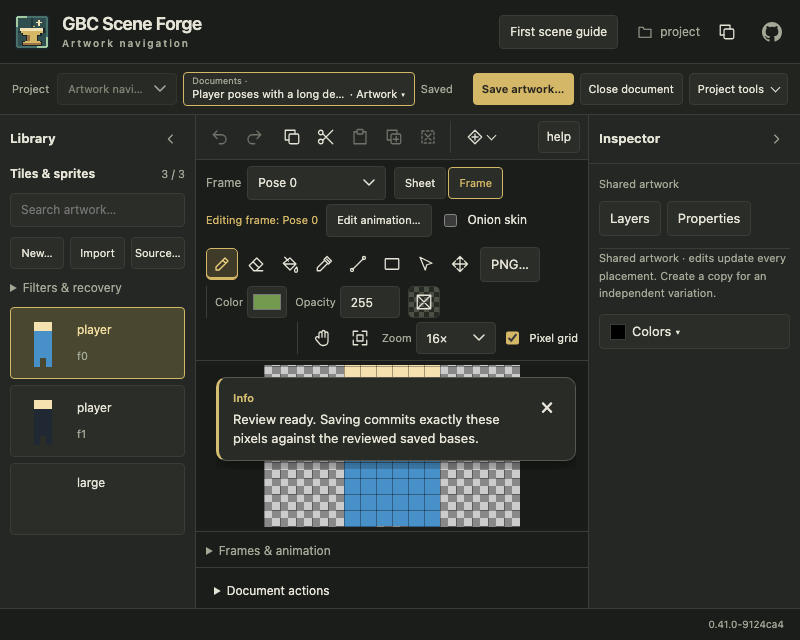
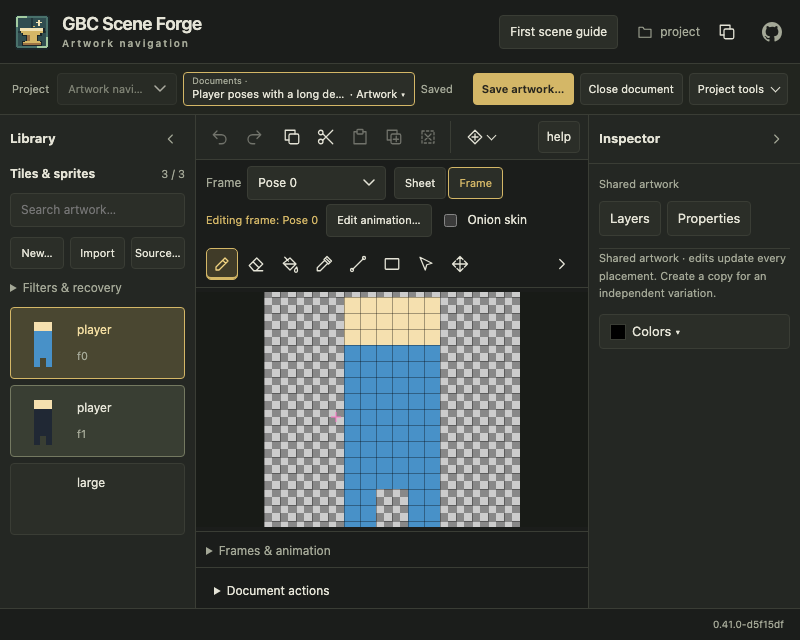
Keep artwork tools on one row with an overflow menu

Changed region(s): [[0.25, 0.4062, 0.7188, 0.8438], [0.875, 0.9688, 0.9688, 1.0]]

diff --git a/src/gbc_scene_forge/static/project.html b/src/gbc_scene_forge/static/project.html
@@ -459,11 +459,13 @@
       </section>
       <details id="art-selection-details" hidden><summary>Placements this variation will replace</summary><ul id="art-selection-list"></ul></details>
         <div id="art-drawing-boundary" class="art-frame-bar" hidden><label class="field">Frame<select id="art-frame"></select></label><div class="art-scope" role="group" aria-label="Drawing scope"><button id="art-sheet-view" aria-pressed="true">Sheet</button><button id="art-frame-view" aria-pressed="false">Frame</button></div><span id="art-drawing-scope" role="status"></span><input id="art-edit-frame" type="checkbox" hidden><button id="art-show-animation" type="button">Edit animation…</button><label><input id="art-onion" type="checkbox"> Onion skin</label></div>
-<div class="art-toolbar">
-<div class="pixel-toolbar" aria-label="Pixel editing commands">
+<div id="art-toolbar" class="art-toolbar">
+<div id="art-drawing-tools" class="pixel-toolbar" aria-label="Pixel editing commands">
 <div class="tool-group" role="group" aria-label="Pixel tools"><label class="tool" title="Pencil (P)"><input type="radio" name="art-tool" value="pencil" checked><svg class="command-icon" width="18" height="18" viewBox="0 0 24 24" aria-hidden="true"><use href="#icon-pencil"/></svg><span class="tool-label">Pencil</span></label><label class="tool" title="Eraser (E)"><input type="radio" name="art-tool" value="erase"><svg class="command-icon" width="18" height="18" viewBox="0 0 24 24" aria-hidden="true"><use href="#icon-erase"/></svg><span class="tool-label">Eraser</span></label><label class="tool" title="Flood fill (F)"><input type="radio" name="art-tool" value="fill"><svg class="command-icon" width="18" height="18" viewBox="0 0 24 24" aria-hidden="true"><use href="#icon-fill"/></svg><span class="tool-label">Flood fill</span></label><label class="tool" title="Eyedropper (I)"><input type="radio" name="art-tool" value="pick"><svg class="command-icon" width="18" height="18" viewBox="0 0 24 24" aria-hidden="true"><use href="#icon-pick"/></svg><span class="tool-label">Eyedropper</span></label><label class="tool" title="Line (L)"><input type="radio" name="art-tool" value="line"><svg class="command-icon" width="18" height="18" viewBox="0 0 24 24" aria-hidden="true"><use href="#icon-line"/></svg><span class="tool-label">Line</span></label><label class="tool" title="Rectangle outline (R)"><input type="radio" name="art-tool" value="rectangle"><svg class="command-icon" width="18" height="18" viewBox="0 0 24 24" aria-hidden="true"><use href="#icon-rectangle"/></svg><span class="tool-label">Rectangle outline</span></label><label class="tool" title="Select rectangle (S)"><input type="radio" name="art-tool" value="select"><svg class="command-icon" width="18" height="18" viewBox="0 0 24 24" aria-hidden="true"><use href="#icon-select"/></svg><span class="tool-label">Select rectangle</span></label><label class="tool" title="Move selection (M)"><input type="radio" name="art-tool" value="move"><svg class="command-icon" width="18" height="18" viewBox="0 0 24 24" aria-hidden="true"><use href="#icon-move"/></svg><span class="tool-label">Move selection</span></label></div>
 </div>
-<button id="art-png-menu" popovertarget="art-png-options" aria-controls="art-png-options" aria-expanded="false" aria-label="Download PNG…" title="Download current artwork as PNG"><span class="command-full-label">Download </span>PNG…</button><div id="art-png-options" class="command-panel art-png-export" popover aria-label="Download PNG"><label class="field">PNG scope<select id="art-png-scope"><option value="sheet">Whole artwork / sheet</option><option value="frame">Selected frame</option></select></label><button id="art-download-png">Download PNG</button><span id="art-png-help" class="hint">Current composited pixels, including unsaved edits; native size and transparency.</span></div><div class="art-row art-tools"><div class="art-row color-controls" role="group" aria-label="Drawing color"><label class="field">Color<input id="art-color" type="color" value="#729b4f"></label><label class="field">Opacity<input title="0 = transparent, 255 = opaque" id="art-alpha" type="number" min="0" max="255" value="255"></label><button id="art-transparent" class="icon-button" aria-pressed="false" title="Toggle transparent drawing; click again to restore opacity"><svg class="command-icon" width="18" height="18" viewBox="0 0 24 24" aria-hidden="true"><use href="#icon-transparent"/></svg><span id="art-transparency-label">Transparent</span></button></div><div class="art-row pixel-view-controls" role="group" aria-label="Pixel view"><button id="art-pan" class="icon-button" aria-label="Pan artwork" aria-pressed="false" title="Pan artwork (H): drag, or use arrow keys on the canvas. Also middle drag or Space+drag."><svg class="command-icon" width="18" height="18" viewBox="0 0 24 24" aria-hidden="true"><use href="#icon-pan"/></svg></button><button id="art-fit" class="icon-button" aria-label="Fit artwork" title="Center and fit artwork in the drawing area"><svg class="command-icon" width="18" height="18" viewBox="0 0 24 24" aria-hidden="true"><use href="#icon-fit"/></svg></button><label class="field">Zoom<select id="art-zoom"><option value="0.03125">¹⁄₃₂×</option><option value="0.0625">¹⁄₁₆×</option><option value="0.125">⅛×</option><option value="0.25">¼×</option><option value="0.5">½×</option><option value="1">1×</option><option value="2">2×</option><option value="4">4×</option><option value="8">8×</option><option value="16" selected>16×</option><option value="32">32×</option></select></label><label><input id="art-grid" type="checkbox" checked> Pixel grid</label></div></div>
+<button id="art-png-menu" popovertarget="art-png-options" aria-controls="art-png-options" aria-expanded="false" aria-label="Download PNG…" title="Download current artwork as PNG"><span class="command-full-label">Download </span>PNG…</button><div id="art-png-options" class="command-panel art-png-export" popover aria-label="Download PNG"><label class="field">PNG scope<select id="art-png-scope"><option value="sheet">Whole artwork / sheet</option><option value="frame">Selected frame</option></select></label><button id="art-download-png">Download PNG</button><span id="art-png-help" class="hint">Current composited pixels, including unsaved edits; native size and transparency.</span></div><div class="art-row art-tools"><div id="art-color-controls" class="art-row color-controls" role="group" aria-label="Drawing color"><label class="field">Color<input id="art-color" type="color" value="#729b4f"></label><label class="field">Opacity<input title="0 = transparent, 255 = opaque" id="art-alpha" type="number" min="0" max="255" value="255"></label><button id="art-transparent" class="icon-button" aria-pressed="false" title="Toggle transparent drawing; click again to restore opacity"><svg class="command-icon" width="18" height="18" viewBox="0 0 24 24" aria-hidden="true"><use href="#icon-transparent"/></svg><span id="art-transparency-label">Transparent</span></button></div><div id="art-view-controls" class="art-row pixel-view-controls" role="group" aria-label="Pixel view"><button id="art-pan" class="icon-button" aria-label="Pan artwork" aria-pressed="false" title="Pan artwork (H): drag, or use arrow keys on the canvas. Also middle drag or Space+drag."><svg class="command-icon" width="18" height="18" viewBox="0 0 24 24" aria-hidden="true"><use href="#icon-pan"/></svg></button><button id="art-fit" class="icon-button" aria-label="Fit artwork" title="Center and fit artwork in the drawing area"><svg class="command-icon" width="18" height="18" viewBox="0 0 24 24" aria-hidden="true"><use href="#icon-fit"/></svg></button><label class="field">Zoom<select id="art-zoom"><option value="0.03125">¹⁄₃₂×</option><option value="0.0625">¹⁄₁₆×</option><option value="0.125">⅛×</option><option value="0.25">¼×</option><option value="0.5">½×</option><option value="1">1×</option><option value="2">2×</option><option value="4">4×</option><option value="8">8×</option><option value="16" selected>16×</option><option value="32">32×</option></select></label><label><input id="art-grid" type="checkbox" checked> Pixel grid</label></div></div>
+<button id="art-more-tools" class="icon-button" type="button" popovertarget="art-tool-overflow" aria-controls="art-tool-overflow" aria-expanded="false" aria-label="More artwork tools" title="More artwork tools" hidden><svg class="command-icon" width="18" height="18" viewBox="0 0 24 24" aria-hidden="true"><path d="m9 6 6 6-6 6"/></svg></button>
+<div id="art-tool-overflow" class="art-tools" popover aria-label="More artwork tools"></div>
 <button id="art-palette-toggle" type="button" popovertarget="art-palette">Colors ▾</button>
 <div id="art-palette" popover="auto" aria-label="Artwork palette">
   <div class="art-palette-tabs" role="tablist" aria-label="Palette scope"><button id="art-palette-composition" type="button" role="tab" aria-selected="true" aria-controls="art-palette-content">Composition</button><button id="art-palette-layer" type="button" role="tab" aria-selected="false" aria-controls="art-palette-content" tabindex="-1">Selected layer</button></div>

diff --git a/tests/playwright/artwork/navigation.spec.ts b/tests/playwright/artwork/navigation.spec.ts
@@ -527,6 +527,88 @@ test('artwork layout keeps commands and drawing reachable across window sizes', 
   );
 });
 
+test('artwork toolbar overflows into a keyboard-accessible popover without adding rows', async ({
+  page,
+  workspace,
+}, info) => {
+  await setup(page, workspace);
+  const more = page.getByRole('button', { name: 'More artwork tools', exact: true });
+  const panel = page.locator('#art-tool-overflow');
+  for (const width of [1440, 1280, 1024, 800, 760, 1920]) {
+    await page.setViewportSize({ width, height: width <= 800 ? 640 : 900 });
+    await expect(async () => {
+      const bounds = await page.locator('#art-toolbar').evaluate((toolbar) => {
+        const row = toolbar.getBoundingClientRect();
+        const controls = [
+          ...toolbar.querySelectorAll<HTMLElement>('.tool,button,input,select'),
+        ].filter((node) => node.checkVisibility() && !node.closest('[popover]'));
+        return {
+          height: row.height,
+          fits: controls.every((node) => {
+            const r = node.getBoundingClientRect();
+            return (
+              r.left >= row.left &&
+              r.right <= row.right &&
+              r.top >= row.top &&
+              r.bottom <= row.bottom
+            );
+          }),
+        };
+      });
+      expect(bounds.height).toBeLessThanOrEqual(36);
+      expect(bounds.fits).toBe(true);
+    }).toPass();
+    await page.screenshot({ path: info.outputPath(`toolbar-${width}.png`) });
+  }
+  await expect(more).toBeHidden();
+  await page.locator('#art-alpha').focus();
+  await page.setViewportSize({ width: 800, height: 640 });
+  await expect(more).toBeFocused();
+  await page.keyboard.press('Enter');
+  await expect(more).toHaveAttribute('aria-expanded', 'true');
+  await expect(panel).toBeVisible();
+  await expect(page.locator('#art-png-menu')).toBeFocused();
+  await page.locator('#art-color').fill('#cc7744');
+  await page.locator('#art-alpha').fill('73');
+  await page.locator('#art-zoom').selectOption('8');
+  await page.screenshot({ path: info.outputPath('toolbar-overflow-open.png') });
+  await page.keyboard.press('Escape');
+  await expect(panel).toBeHidden();
+  await expect(more).toBeFocused();
+  await more.click();
+  await page.locator('#art-pan').click();
+  await expect(panel).toBeHidden();
+  await expect(page.locator('#art-pan')).toHaveAttribute('aria-pressed', 'true');
+  await more.click();
+  await page.locator('#art-fit').click();
+  await expect(panel).toBeHidden();
+  await more.click();
+  await page.locator('#app-version').click();
+  await expect(panel).toBeHidden();
+  await more.click();
+  await page.locator('#art-png-menu').click();
+  await expect(page.locator('#art-png-options')).toBeVisible();
+  await page.setViewportSize({ width: 1920, height: 1000 });
+  await expect(panel).toBeHidden();
+  await expect(page.locator('#art-png-options')).toBeHidden();
+  await expect(more).toBeHidden();
+  await expect(page.locator('#art-color')).toHaveValue('#cc7744');
+  await expect(page.locator('#art-alpha')).toHaveValue('73');
+  await expect(page.locator('#art-document-state')).toHaveText('Saved');
+  // A focused invoker also needs a visible destination when overflow disappears.
+  await page.setViewportSize({ width: 800, height: 640 });
+  await more.focus();
+  await page.setViewportSize({ width: 1920, height: 1000 });
+  await expect(page.locator('#art-png-menu')).toBeFocused();
+  await page.setViewportSize({ width: 800, height: 640 });
+  await more.click();
+  await activateScene(page);
+  await expect(panel).toBeHidden();
+  await page.locator('[data-asset="player/f0"]').click();
+  await expect(more).toHaveAttribute('aria-expanded', 'false');
+  await expect(page.locator('#art-color')).toHaveValue('#cc7744');
+});
+
 test('retained artwork count rejects the next document, permits revisiting and frees a closed slot', async ({
   page,
   workspace,

diff --git a/src/gbc_scene_forge/static/project.css b/src/gbc_scene_forge/static/project.css
@@ -527,8 +527,9 @@
 #art-editor {display:flex;flex-direction:column;gap:8px;min-height:0;flex:1}
 #art-editor>* {flex:none;min-width:0}
 #art-editor>.art-controls {display:flex;flex-direction:column;gap:4px;overflow:visible;min-height:0;padding:3px;scroll-padding:3px}
-.art-toolbar {display:flex;flex-wrap:wrap;align-items:center;gap:4px}
-.art-toolbar .pixel-toolbar,.art-toolbar .art-tools {display:contents}
+.art-toolbar {display:flex;flex-wrap:nowrap;align-items:center;gap:4px}
+.art-toolbar>.art-row.art-tools {display:contents}
+.art-toolbar>.pixel-toolbar {flex:none;overflow:visible}
 .art-toolbar .tool-group,.art-toolbar .color-controls,.art-toolbar .pixel-view-controls {flex:none}
 .art-toolbar .color-controls,.art-toolbar .pixel-view-controls {border-left:1px solid var(--line);padding-left:8px}
 .art-controls>* {flex:none;min-width:0}
@@ -552,6 +553,11 @@
 #art-transparency-label {display:none}
 .pixel-view-controls {align-items:flex-end;margin-left:auto}
 .art-tools .pixel-view-controls {gap:6px;flex-wrap:nowrap}
+#art-more-tools {margin-left:auto}
+#art-tool-overflow {position:fixed;inset:auto;margin:0;padding:12px;width:max-content;max-width:calc(100vw - 16px);max-height:calc(100dvh - 16px);overflow:auto;background:var(--panel);color:var(--text);border:1px solid var(--line);border-radius:8px;box-shadow:0 6px 24px #0008}
+#art-tool-overflow:popover-open {display:flex;flex-direction:column;align-items:flex-start;gap:12px}
+#art-tool-overflow .color-controls,#art-tool-overflow .pixel-view-controls {margin:0;padding:0;border:0;flex-wrap:nowrap}
+#art-tool-overflow::backdrop {background:transparent}
 .pixel-view-controls>label:last-child {height:32px;font-size:11px}
 #art-palette {position:fixed;inset:auto;margin:0;width:min(334px,calc(100vw - 16px));max-height:min(480px,calc(100dvh - 16px));overflow:auto;padding:12px;background:var(--panel);color:var(--text);border:1px solid var(--line);border-radius:8px;box-shadow:0 6px 24px #0008}
 #art-palette-toggle::before {content:"";display:inline-block;width:14px;height:14px;margin-right:6px;vertical-align:middle;border:1px solid var(--line);background:var(--swatch,#000)}

diff --git a/tests/playwright/editor/working-space.spec.ts b/tests/playwright/editor/working-space.spec.ts
@@ -34,7 +34,7 @@ async function work(page: Page) {
   return result;
 }
 async function png(page: Page, scope: string) {
-  await page.locator('#art-png-menu').click();
+  await (await revealArtworkControl(page, 'art-png-menu')).click();
   await page.locator('#art-png-scope').selectOption(scope);
   const waiting = page.waitForEvent('download');
   await page.locator('#art-download-png').focus();
@@ -172,8 +172,8 @@ for (const viewport of [
     await page.locator('#art-dock > summary').click();
     await (await revealArtworkControl(page, 'art-layer')).selectOption({ label: 'Overlay' });
     await page.locator('#art-layers-toggle').click();
-    await page.locator('#art-color').fill('#cc7744');
-    await page.locator('#art-alpha').fill('127');
+    await (await revealArtworkControl(page, 'art-color')).fill('#cc7744');
+    await (await revealArtworkControl(page, 'art-alpha')).fill('127');
     await page.locator('#art-canvas').click({ position: { x: 24, y: 24 } });
     await page.keyboard.press('e');
     await expect(page.locator('input[name="art-tool"][value="erase"]')).toBeChecked();

diff --git a/tests/playwright/support/artwork-controls.ts b/tests/playwright/support/artwork-controls.ts
@@ -4,6 +4,29 @@ import { expect } from '@playwright/test';
 
 export async function revealArtworkControl(page: Page, id: string) {
   const control = page.locator('#' + id);
+  if (
+    id === 'art-png-menu' ||
+    (await control
+      .locator('xpath=ancestor::*[@id="art-color-controls" or @id="art-view-controls"]')
+      .count())
+  ) {
+    // Resizing can move the group after the caller changes the viewport.
+    await page.evaluate(
+      () =>
+        new Promise<void>((done) =>
+          requestAnimationFrame(() => requestAnimationFrame(() => done())),
+        ),
+    );
+    await expect(async () => {
+      if (
+        !(await control.isVisible()) &&
+        (await control.locator('xpath=ancestor::*[@id="art-tool-overflow"]').count())
+      ) {
+        await page.getByRole('button', { name: 'More artwork tools', exact: true }).click();
+      }
+      expect(await control.isVisible()).toBe(true);
+    }).toPass({ timeout: 5000 });
+  }
   if (id === 'art-handoff-list') {
     await page.locator('#art-agent-mode').click();
   }

diff --git a/tests/playwright/editor/shared-shell.spec.ts b/tests/playwright/editor/shared-shell.spec.ts
@@ -9,7 +9,7 @@ import {
   chooseSavedScene,
   activateScene,
 } from '../support/browser-fixtures.ts';
-import { reviewArtwork, saveArtwork } from '../support/artwork-controls.ts';
+import { reviewArtwork, saveArtwork, revealArtworkControl } from '../support/artwork-controls.ts';
 
 for (const [width, height] of [
   [1440, 900],
@@ -67,7 +67,10 @@ print(s['id'])
     await expect(page.locator('#inspector-pane #art-inspector-actions')).toBeVisible();
     await expect(page.locator('#scene-panel')).toBeHidden();
     await expect(page.locator('#art-canvas')).toBeFocused();
-    await page.locator('#art-color').fill('#cc8833');
+    await (await revealArtworkControl(page, 'art-color')).fill('#cc8833');
+    if (await page.locator('#art-tool-overflow').isVisible()) {
+      await page.keyboard.press('Escape');
+    }
     const bounds = await page.locator('#art-canvas').boundingBox();
     if (!bounds) {
       throw Error('Expected artwork canvas');

diff --git a/tests/playwright/artwork/pixels.spec.ts b/tests/playwright/artwork/pixels.spec.ts
@@ -362,7 +362,7 @@ test('new artwork, duplicate imported pixels, compact UI and recoverable draft c
   await page.locator('#art-name').fill('Copied tile');
   await (await revealArtworkControl(page, 'art-duplicate')).click();
   await expect(page.locator('#art-canvas')).toBeVisible();
-  await page.locator('#art-color').fill('#eeaa44');
+  await (await revealArtworkControl(page, 'art-color')).fill('#eeaa44');
   await page.locator('input[name=art-tool][value=pencil]').check();
   await draw(page, 1, 1);
   await expect(page.locator('#art-draft-status')).toContainText('checkpointed');

diff --git a/tests/playwright/artwork/large-artwork.spec.ts b/tests/playwright/artwork/large-artwork.spec.ts
@@ -176,8 +176,8 @@ for (const [width, height] of [
       { width: 760, height: 600 },
     ]) {
       await page.setViewportSize(viewport);
-      await page.locator('#art-zoom').selectOption('32');
-      await page.locator('#art-fit').click();
+      await (await revealArtworkControl(page, 'art-zoom')).selectOption('32');
+      await (await revealArtworkControl(page, 'art-fit')).click();
       await expectFitted();
     }
     await page.screenshot({ path: info.outputPath('maximum-axis-fit.png') });

diff --git a/docs/VALIDATION.md b/docs/VALIDATION.md
@@ -15,6 +15,28 @@ preserve the pre-consolidation records, including the
 and [rendering checks](https://github.com/cliffom/gbc-scene-forge/blob/5d0d98c939947f2dcdddcc7e49f96834679a08f0/docs/evaluations/canvas-repainting.md).
 Dates, revisions and environments missing from the originals remain unknown.
 
+## Artwork toolbar overflow (#242 / PR #243)
+
+- **Scope:** PR #243 working tree based on `d5f15df`, checked 2026-11-05 on
+  macOS arm64 with Python 3.13.13, Node 24.22.1 and Playwright 1.64.1 Chromium.
+- **Method:** Run `make lint test`, `make test-browser` and frontend compilation.
+  Exercise one-row bounds from 760 to 1920 px, keyboard opening/Escape, outside
+  dismissal, resize focus transfer, Pan/Fit, retained settings and document
+  switches. Agent-inspect [desktop](images/artwork-pan-fit-desktop.png),
+  [compact](images/artwork-pan-fit-compact.png) and
+  [open overflow](images/artwork-toolbar-overflow.png) captures at 1440 × 900
+  and 800 × 640. Rerun navigation and working-space suites after the final
+  nested PNG popover resize cleanup.
+- **Result:** Lint, documentation checks, 490 Python tests and all TypeScript
+  suites pass. Regular browser acceptance passes 194 cases with 12 optional
+  profile skips; the final focused run passes all 19 cases. Initial runs failed
+  tests that assumed always-visible controls, sampled before resize layout, or
+  clicked pixels covered by the open popover. Tests now reveal overflow controls,
+  await layout and dismiss the popover before drawing in its covered area.
+- **Limits:** Local Chromium evidence only. The final nested PNG cleanup has
+  focused browser coverage after the full-suite run. Installed-wheel, optional
+  MCP and external Tiled checks were not rerun.
+
 ## Composed artwork palette (#240)
 
 - **Scope:** Prepared 0.41.0 working tree on `issue-240-composed-palette`, based

diff --git a/docs/user/pixel-artwork.md b/docs/user/pixel-artwork.md
@@ -245,7 +245,9 @@ same icon style as scene commands; gold marks the selected drawing tool.
 The shared strip holds history, clipboard and transforms. The contextual toolbar
 groups drawing tools, Color/Opacity and Pan/Fit/Zoom beside the canvas. Pan uses
 the hand icon and Fit uses the same fit-to-view icon as the scene editor; hover
-for tooltips. Groups wrap together at smaller widths; the **Colors ▾**
+for tooltips. The toolbar stays on one row. When space is tight, **>** (More artwork
+tools) opens controls that do not fit, starting with Download PNG, then drawing
+color and navigation. Escape or clicking outside closes the popover. The **Colors ▾**
 button in the Inspector opens a scrollable 12-column swatch grid. The Inspector identifies shared
 artwork, new artwork and selected-placement variations; the document bar shows
 local Saved/Modified/New state. Save stays in the document bar. **Document actions**

diff --git a/docs/FRONTEND-ARCHITECTURE.md b/docs/FRONTEND-ARCHITECTURE.md
@@ -42,6 +42,12 @@ used for current resources/state, not captured copies of mutable primitives.
 Keep ports limited to each consumer's needs; do not replace these owners with a
 shared miscellaneous state object or global event bus.
 
+`editor/editor-toolbar-overflow.mts` keeps artwork tools on one row by moving
+existing control groups into a native popover when they do not fit. It owns resize
+measurement, focus transfer and restoration of the original DOM positions on
+disposal; control state stays with the existing artwork owners. The layout owner
+closes the popover on document transitions.
+
 `artwork/artwork-workspace.mts` contributes layer/property/review sections and
 color assistance to the one Inspector. `artwork/sheet-editor.mts` owns the drawing-boundary controls beside the tools and
 the bounded bottom frame/animation dock, stops playback on collapse and reuses raster stamps
